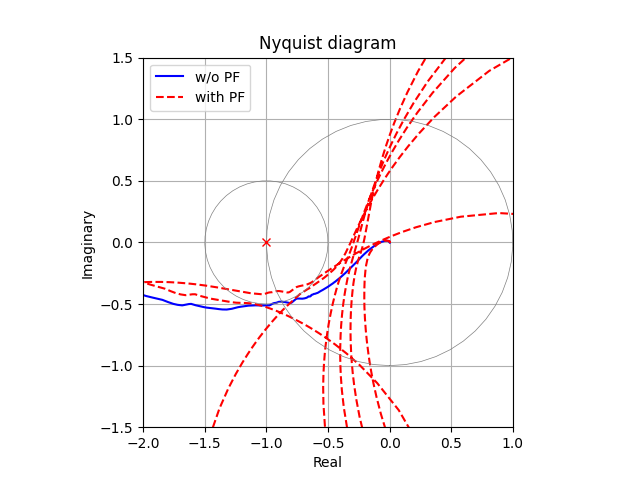
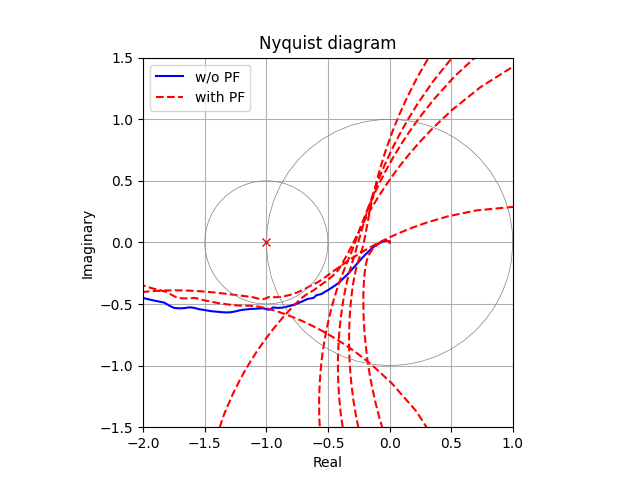
v-0.1.9

diff --git a/example/Run_pf_exp.py b/example/Run_pf_exp.py
@@ -60,17 +60,17 @@ Pmeas_frd, coh = meas.measdata2frd('data/freq_resp.csv', 'ServoOutN[0]', 'ActPos
 # Time response
 measdata = meas.getcsvdata('data/time_resp.csv')
 time = measdata.time
-RefPosUm = measdata.value[meas.getdataindex(measdata, 'RefPosUm[1]')]
-ErrPosUm = measdata.value[meas.getdataindex(measdata, 'ErrPosUm[1]')]
-ServoOutN = measdata.value[meas.getdataindex(measdata, 'ServoOutN[1]')]
+RefPosUm = measdata.value[meas.getdataindex(measdata, 'RefPosUm[0]')]
+ErrPosUm = measdata.value[meas.getdataindex(measdata, 'ErrPosUm[0]')]
+ServoOutN = measdata.value[meas.getdataindex(measdata, 'ServoOutN[0]')]
 # FFT
 freq_fft, ErrPosUm_fft = fft.fft(ErrPosUm[4000:36000], Ts)
 
 measdata_pf = meas.getcsvdata('data/time_resp_pf.csv')
 time_pf = measdata_pf.time
-RefPosUm_pf = measdata_pf.value[meas.getdataindex(measdata_pf, 'RefPosUm[1]')]
-ErrPosUm_pf = measdata_pf.value[meas.getdataindex(measdata_pf, 'ErrPosUm[1]')]
-ServoOutN_pf = measdata_pf.value[meas.getdataindex(measdata_pf, 'ServoOutN[1]')]
+RefPosUm_pf = measdata_pf.value[meas.getdataindex(measdata_pf, 'RefPosUm[0]')]
+ErrPosUm_pf = measdata_pf.value[meas.getdataindex(measdata_pf, 'ErrPosUm[0]')]
+ServoOutN_pf = measdata_pf.value[meas.getdataindex(measdata_pf, 'ServoOutN[0]')]
 # FFT
 freq_fft_pf, ErrPosUm_fft_pf = fft.fft(ErrPosUm_pf[4000:36000], Ts)
 
@@ -95,6 +95,23 @@ for i in range(len(PFz)):
 
 freqPF, zetaPF, kPF, phiPF = ctrl.pfoptparam(freqPF, zetaPF, depthPF, ctrl.feedback(Pnz, Cz, sys='T'))
 print('Peak filters were designed.')
+
+print('Creating parameter set Cpp and header files...')
+axis_num = 6
+Cz_PID_axes = np.array([ctrl.tf([1.0], [1.0], Ts) for i in range(axis_num)])
+PFz_axes = np.array([[ctrl.tf([0.0], [1.0], Ts) for j in range(len(PFz))] for i in range(axis_num)])
+
+for i in range(axis_num):
+    Cz_PID_axes[i] = Cz
+
+for i in range(axis_num):
+    for j in range(len(PFz)):
+        PFz_axes[i][j] = PFz[j]
+
+path = 'src'
+ctrl.makeprmset(path)
+ctrl.defprmset(Cz_PID_axes, 'gstPIDInf['+str(axis_num)+']', path)
+ctrl.defprmset(PFz_axes, 'gstPFInf['+str(axis_num)+']['+str(len(PFz))+']', path)
 
 print('Frequency response analysis is running...')
 # Measurement with PF
